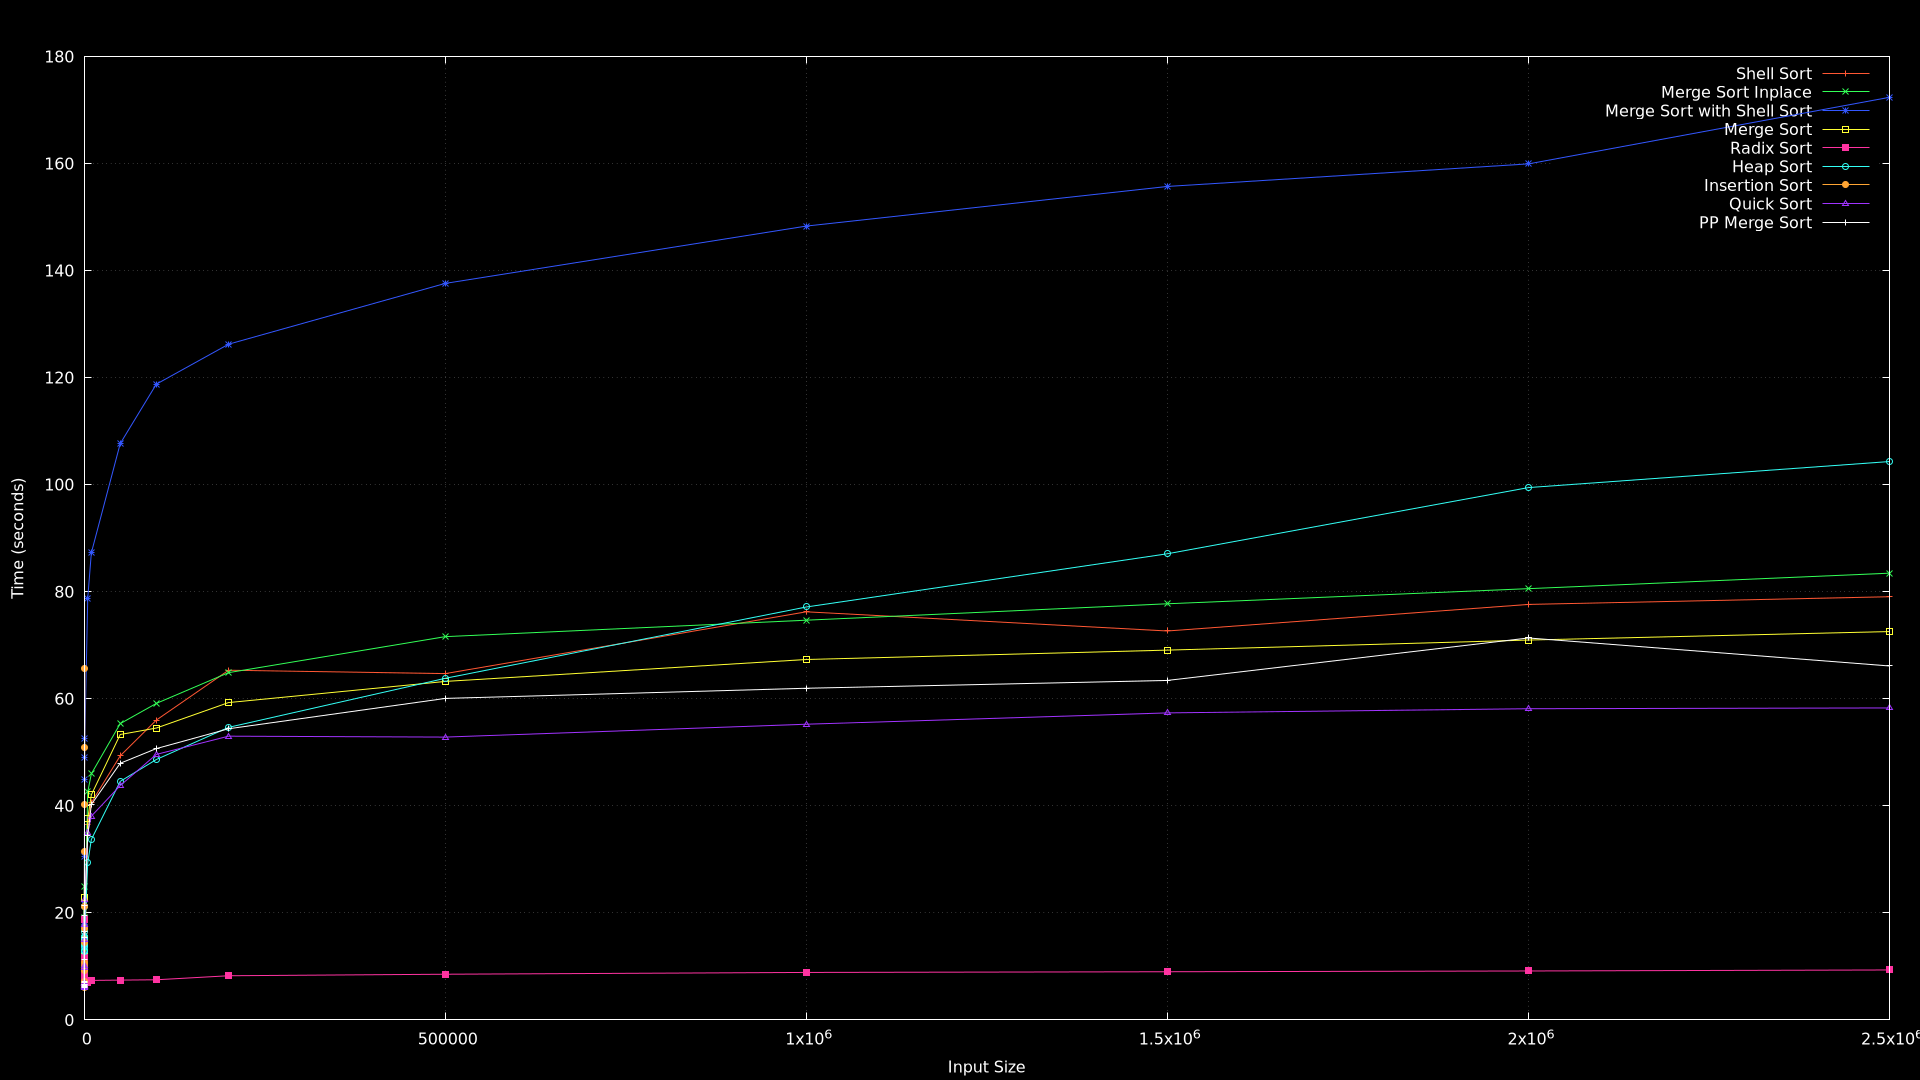
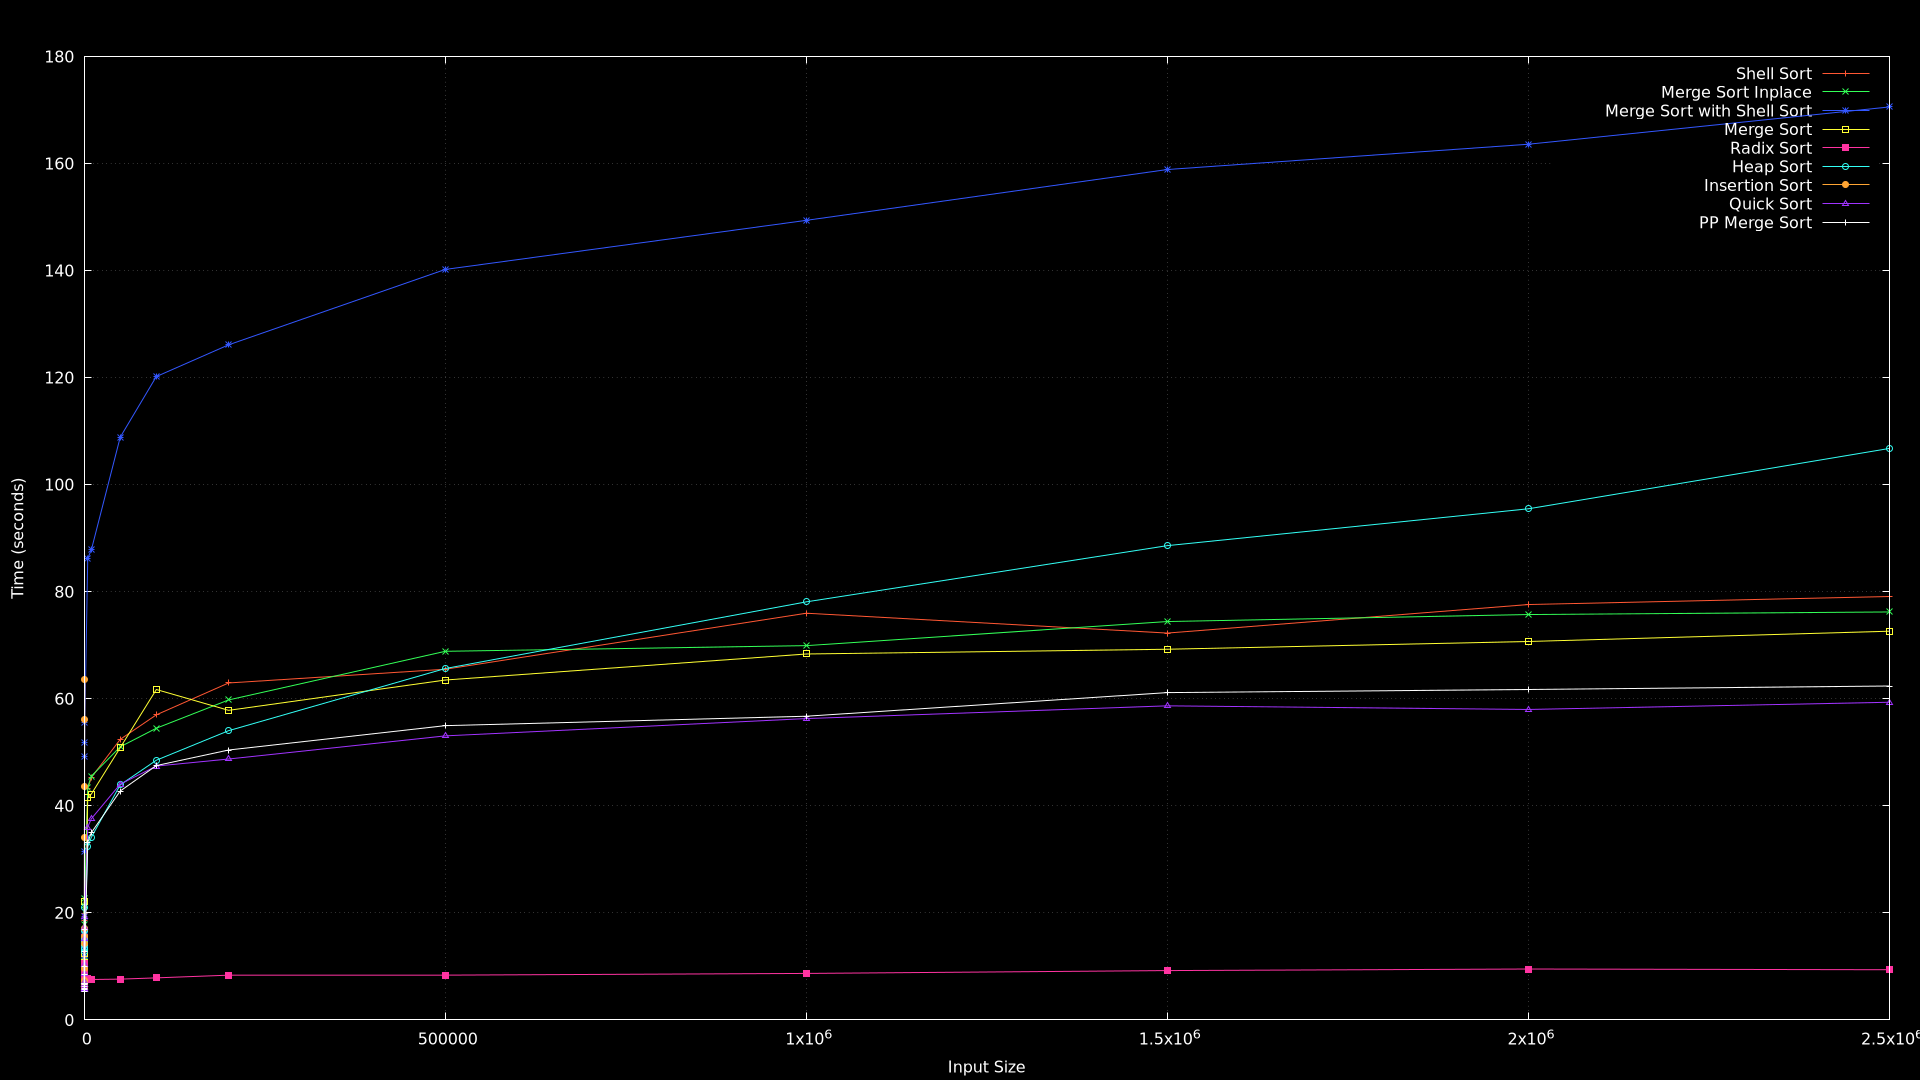
improve in-place merge, tweak merge sort

diff --git a/sorting.c b/sorting.c
@@ -22,12 +22,13 @@ void insertion(T *a, T *e) {
 }
 
 void merge_inplace(T *a, T *ae, T *b, T *be) {
-    T c[8192], *ce = c, *d = a, *l = b, *r = b;
-    if(be - a <= 8192) {
-        while(a < ae && b < be) *ce++ = *b < *a ? *b++ : *a++;
-        while(a < ae || b < be) *ce++ =  b < be ? *b++ : *a++;
-        memmove(b - (ae-a), a, (ae-a) * sizeof(T));
-        memmove(d, c, (ce-c) * sizeof(T));
+    T v[8192], *c = v, *ce, *l = b, *r = b;
+    if(ae-a < 8192) {
+        memmove(c, a, (ae-a) * sizeof(T)), ce = c+(ae-a);
+        while(c < ce) *a++ = b < be && *b < *c ? *b++ : *c++;
+    } else if(be-b < 8192) {
+        memmove(c, b, (be-b) * sizeof(T)), ce = c+(be-b);
+        while(c < ce) *--be = a >= ae || *(ce-1) >= *(ae-1) ? *--ce : *--ae;
     } else {
         while(l > a && r < be && *(l-1) > *r) l -= 1, r += 1;
         for(T *p = l, *q = b, t; q < r;) t = *p, *p++ = *q, *q++ = t;
@@ -96,7 +97,7 @@ void quick_sort(T *a, T *e) {
 }
 
 void _pp_merge_sort(T* v, T* w, size_t n) {
-    if(n < 1024) return insertion(v, v+n);
+    if(n < 64) return insertion(v, v+n);
     size_t m = (n+1)/2; n /= 2;
     _pp_merge_sort(v, w, m/2);
     _pp_merge_sort(v+m/2, w+m/2, (m+1)/2);

diff --git a/main.c b/main.c
@@ -36,7 +36,7 @@ int main() {
     FILE *f_quick = fopen("quick.dat", "w");
     FILE *f_merge_pp = fopen("merge_sort_pp.dat", "w");
 
-    srand(time(NULL));  // Initialize random seed
+    srand(clock());
 
     // Benchmarking loop
     for (int i = 0; i < num_sizes; i++) {

diff --git a/README.md b/README.md
@@ -4,9 +4,9 @@ Collection of small sorting algorithms implemented in C, in the `sorting.c` file
 ## Sorting Algorithms
 
 | Algorithm                 | Average Case | Worst Case   | Stable | In-Place | LOC |
-|---------------------------|--------------|-------------------|--------|----------|-----|
+|---------------------------|--------------|--------------|--------|----------|-----|
 | **Shell Sort**            | O(n log n)   | O(n²)        | No     | Yes      | 6   |
-| **Merge Sort (InPlace)**  | O(n log n)   | O(n log² n)  | Yes    | Yes      | 18  |
+| **Merge Sort (InPlace)**  | O(n log n)   | O(n log² n)  | Yes    | Yes      | 19  |
 | **Merge Sort with Shell** | O(n log² n)  | O(n² log n)  | No     | Yes      | 7   |
 | **Merge Sort**            | O(n log n)   | O(n log n)   | Yes    | No       | 14  |
 | **Radix Sort**            | O(nk)        | O(nk)        | Yes    | No       | 11**|
